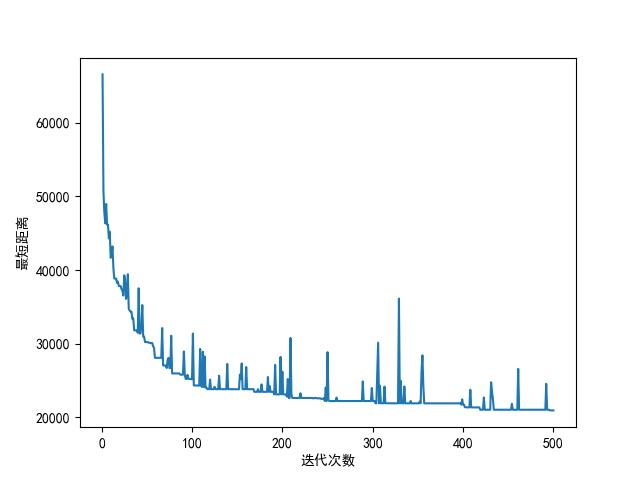
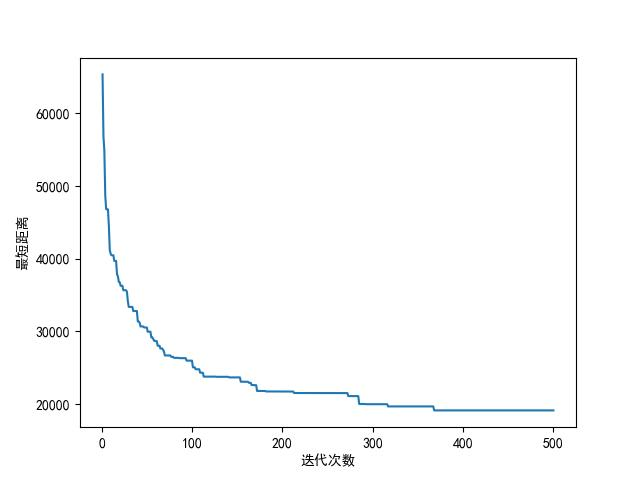
完成

diff --git a/TSP.py b/TSP.py
@@ -104,8 +104,8 @@ class TSP():
         return pop        
 
     #主程序,迭代进化种群
-    def evolution(self,ga_num:int=300):#尽量多个模块,多用参数和返回值,不要把功能都堆在一个函数中
-        '''ga_num:最大迭代次数,默认为300  
+    def evolution(self,ga_num:int=500):#尽量多个模块,多用参数和返回值,不要把功能都堆在一个函数中
+        '''ga_num:最大迭代次数,默认为500  
 
            返回值是最优基因列表和最优距离列表,用来绘图
         '''
@@ -115,20 +115,17 @@ class TSP():
 
         for i in range(self.ga_num):
             best_f_index=self.fitness.index(max(self.fitness))#适应度最好的
-            worst_f_index=self.fitness.index(min(self.fitness))#适应度最差的
             local_best_gen=self.pop[best_f_index]#局部最优基因
             local_best_dist=self.city.genDistance(local_best_gen)#局部最短距离 
-
-            self.best_gen=local_best_gen
+            if i==0:
+                self.best_gen=local_best_gen
             self.best_dist=self.city.genDistance(self.best_gen)
 
             #比较替换
             if local_best_dist<self.best_dist:#如果出现了更优化的解,则替换
-                self.best_dist=local_best_dist
                 self.best_gen=local_best_gen
-            # else:
-            #     self.pop[worst_f_index]=self.best_gen#如果没有更优解,就把当前best当成全局最优,并用最优替换最差的
-            #主遗传程序,随机交叉,变异:选择种群-计算适应度-交叉-变异
+
+            #主遗传程序:淘汰种群-随机交叉,变异:选择种群-计算适应度-交叉-变异
             self.pop=self.selectPop(self.pop)
             self.fitness=self.getFitness(self.pop)
             for j in range(self.pop_size):
@@ -139,7 +136,7 @@ class TSP():
             
             #每次迭代完后
             self.best_dist=self.city.genDistance(self.best_gen)#记录最短距离
-            print("迭代%d次,最短距离:%s" % (i,self.best_dist))
+            # print("迭代%d次,最短距离:%s" % (i,self.best_dist))
             best_dis_list.append(self.best_dist) #添加折线图的y值
             best_pop_list.append(self.best_gen) #添加基因,用于画图
 

diff --git a/analysis.py b/analysis.py
@@ -5,8 +5,7 @@ from Draw import *
 #固定其他参数,ga_num=500
 #求不同种群大小下的收敛距离,每个求5次,取平均值画图
 def analysisPop():
-    # pop=[n for n in range(20,120,10)]#20~110
-    pop=[n for n in range(65,76,1)] #得到最佳种群大小:73
+    pop=[n for n in range(60,120,10)]#20~110
     constringency=[]
     for i in pop:
         tsp=TSP(pop_size=i)
@@ -25,14 +24,14 @@ def analysisPop():
     plt.title("种群大小和收敛距离关系图",color="red")
     plt.show()
 
-#确定pop_size=73
+#确定pop_size=90
 # 分析Crate和收敛dist的关系
 def analysisCrate():
     # crate=[n/10 for n in range(3,10,1)]  #0.3-0.9
-    crate=[n/100 for n in range(45,56,1)] #得到最佳交叉率:0.54
+    crate=[n/100 for n in range(55,66,1)] #得到最佳交叉率:0.62
     csgc=[]
     for i in crate:
-        tsp=TSP(c_rate=i,pop_size=73)
+        tsp=TSP(c_rate=i,pop_size=90)
         tsp.init()
         temp=[]
         for j in range(5):
@@ -46,14 +45,14 @@ def analysisCrate():
     plt.title("交叉率和收敛距离关系图",color="red")
     plt.show()
 
-#pop_size=73,同时c_rate=0.54的条件下,找最佳的变异率
+#pop_size=90,同时c_rate=0.62的条件下,找最佳的变异率
 #分析M_rate和收敛距离的关系
 def analysisMrate():
     # mrate=[n/100 for n in range(1,10,1)]  #0.01-0.09
-    mrate=[n/1000 for n in range(56,65,1)]#得到最佳变异率:0.06
+    mrate=[n/1000 for n in range(56,65,1)]#得到最佳变异率:0.063
     csgc=[]
     for i in mrate:
-        tsp=TSP(c_rate=0.54,m_rate=i,pop_size=73)
+        tsp=TSP(c_rate=0.62,m_rate=i,pop_size=90)
         tsp.init()
         temp=[]
         for j in range(5):
@@ -66,9 +65,10 @@ def analysisMrate():
     plt.ylabel("平均收敛距离",color='green')
     plt.title("交叉率和收敛距离关系图",color="red")
     plt.show()
-    pass
 
 if __name__=="__main__":
     # analysisPop()
     # analysisCrate()
     analysisMrate()
+
+    # tsp=TSP(0.62,0.063,90)

diff --git a/main.py b/main.py
@@ -14,20 +14,19 @@ def runtime(f):
 #主程序
 @runtime
 def main():
-    pass
-    tsp=TSP(0.54,0.06,100)#最三个最佳的参数
-    # tsp=TSP()
+    print("程序开始,迭代进化..")
+    tsp=TSP(0.62,0.063,90)#最三个最佳的参数
     tsp.init()
-    dis_list,pop_list=tsp.evolution(1000)
-    print("处理图片")
-    # drawLine(dis_list)
-    # lastDraw(pop_list[-1],dis_list[-1])
-    # popDraw(pop_list,dis_list,200)
-    # picsTogif()
-    # print("保存数据")
-    # writeFile(dis_list,r'./data/list.ini')
-    # writeFile(pop_list,r'./data/pop.ini')
-    # print("执行完毕")
+    dis_list,pop_list=tsp.evolution()
+    print("迭代完毕,正在处理图片..")
+    drawLine(dis_list)
+    lastDraw(pop_list[-1],dis_list[-1])
+    popDraw(pop_list,dis_list,200)
+    picsTogif()
+    print("图片处理完毕")
+    writeFile(dis_list,r'./data/list.ini')
+    writeFile(pop_list,r'./data/pop.ini')
+    print("保存数据完毕")
 
 if __name__=="__main__":
     main()

diff --git a/Draw.py b/Draw.py
@@ -31,8 +31,8 @@ def genDraw(gen:list):
     return plt
 
 def popDraw(best_pop_list:list,best_dis_list:list,picnum:int):
-    '''根据种群画图  
-
+    '''根据种群画图  \n
+        参数picnum是绘制gif所用的图片数量\n
         picnum必须不大于迭代次数
     '''
     #加个判断
